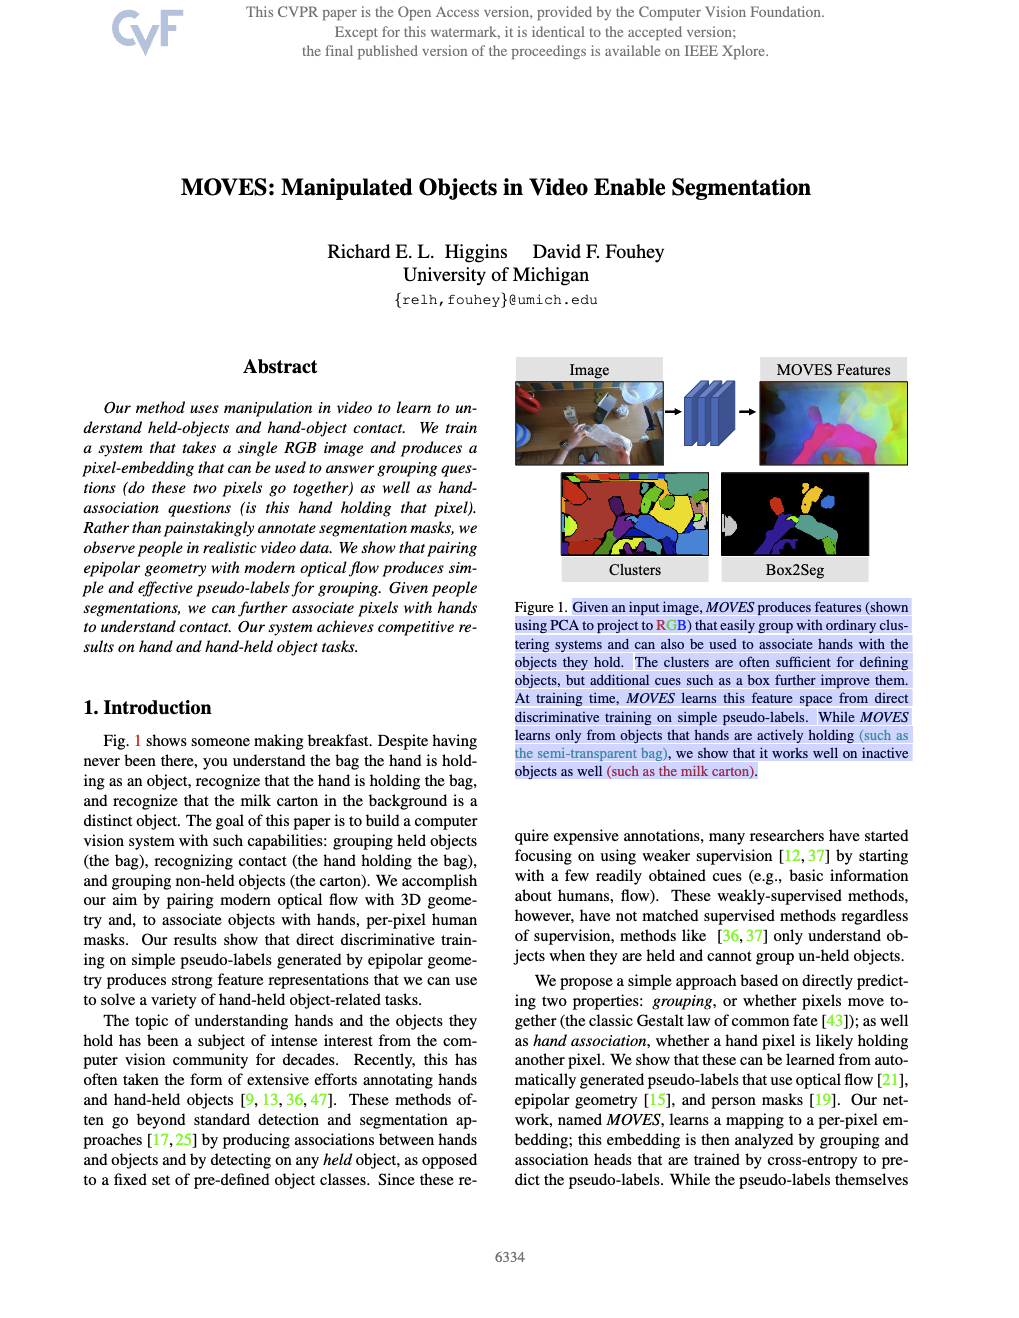
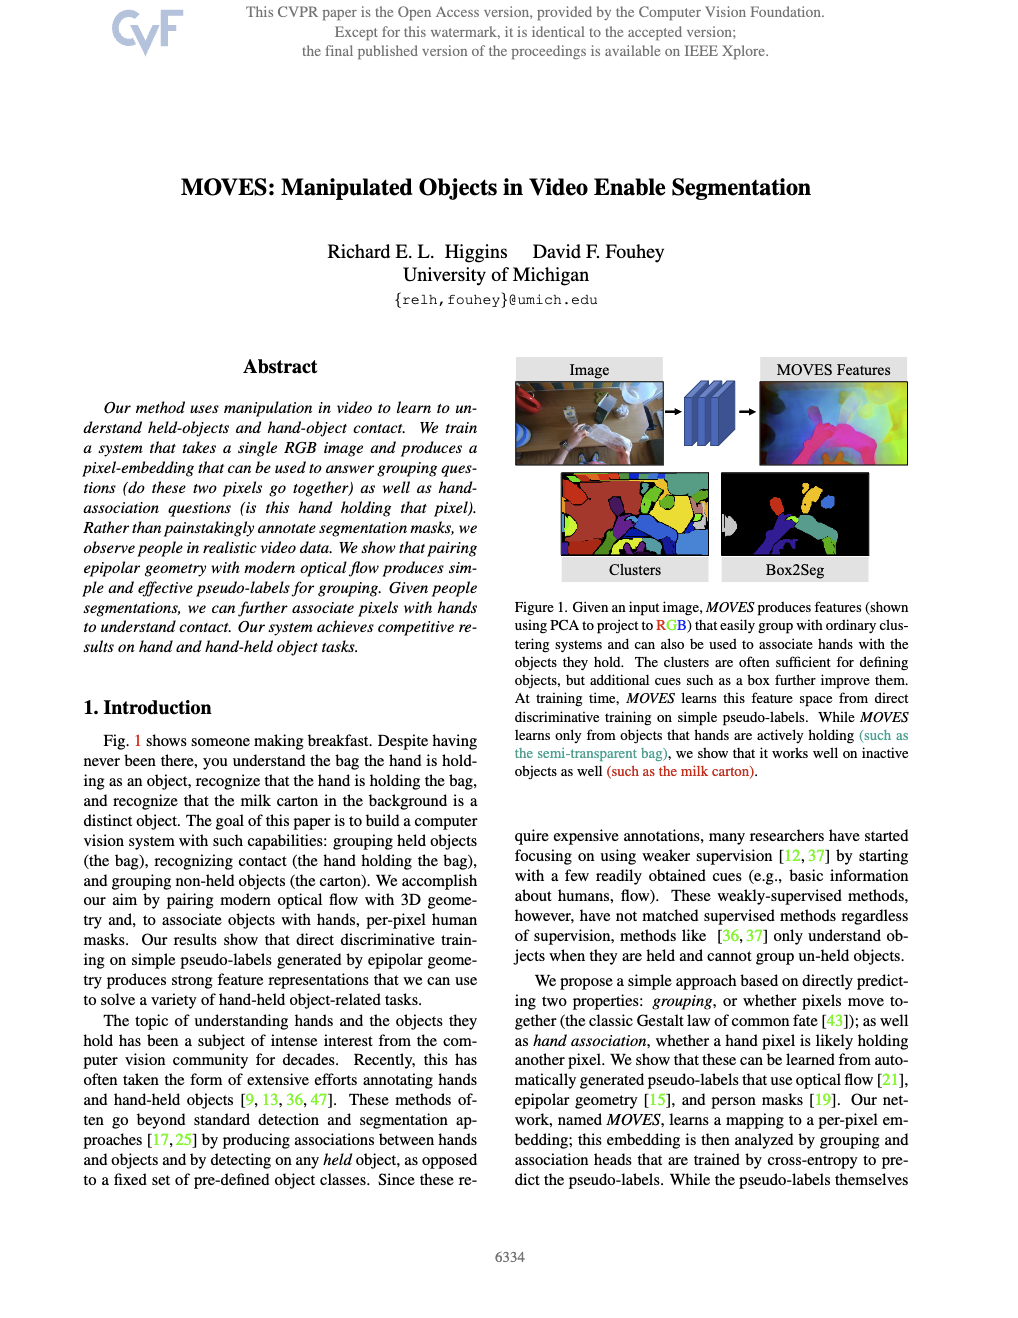
version 1 to add some fields

diff --git a/index.html b/index.html
@@ -30,7 +30,9 @@
 
               gtag('config', 'G-ZHY384EZP7');
     </script>
-
+        <script type="text/javascript" id="MathJax-script" async
+        src="https://cdn.jsdelivr.net/npm/mathjax@3/es5/tex-mml-chtml.js">
+        </script>
 </head>
 
 <body>
@@ -68,15 +70,12 @@
     <img style="width: 80%;" src="./resources/teaser.png" alt="Teaser figure."/>
     <br>
     <p style="width: 80%;">
-    Given an input image, MOVES produces features (shown
-    using PCA to project to RGB) that easily group with ordinary clustering systems and can also be used to associate hands with the
-    objects they hold. The clusters are often sufficient for defining
-    objects, but additional cues such as a box further improve them.
-    At training time, MOVES learns this feature space from direct
-    discriminative training on simple pseudo-labels. While MOVES
-    learns only from objects that hands are actively holding (such as
-    the semi-transparent bag), we show that it works well on inactive
-    objects as well (such as the milk carton).
+    Given an input image, method produces features (shown using PCA to project to 
+    <span style='color:red'>R</span><span style='color:green'>G</span><span style='color:blue'>B</span>) 
+    that easily group with ordinary clustering systems and can also be used to associate hands with the objects they hold. The clusters are often sufficient for defining objects, but additional cues such as a box improve them further. At training time, method learns this feature space from direct discriminative training on simple pseudo-labels. While method learns only from objects that hands are actively holding 
+    <span style='color:baggreen'>(such as the semi-transparent bag)</span>, 
+    we show that it works well on inactive objects as well 
+    <span style='color:cartonred'>(such as the milk carton)</span>.
     </p>
 
     <br><br>
@@ -85,6 +84,16 @@
     <h1>Abstract</h1>
     <p style="width: 80%;">
         Our method uses manipulation in video to learn to understand held-objects and hand-object contact. We train a system that takes a single RGB image and produces a pixel-embedding that can be used to answer grouping questions (do these two pixels go together) as well as hand-association questions (is this hand holding that pixel). Rather than painstakingly annotate segmentation masks, we observe people in realistic video data. We show that pairing epipolar geometry with modern optical flow produces simple and effective pseudo-labels for grouping. Given people segmentations, we can further associate pixels with hands to understand contact. Our system achieves competitive results on hand and hand-held object tasks.
+    </p>
+
+    <br><br>
+    <hr>
+
+    <h1>Poster</h1>
+    <img style="width: 80%;" src="./resources/poster.png"
+         alt="poster figure"/>
+    <br>
+    <p style="width: 80%;">
     </p>
 
     <br><br>
@@ -104,6 +113,21 @@
     <img style="width: 80%;" src="./resources/method.png"
          alt="Method overview figure"/>
     <br>
+    <p style="width: 80%;">
+    As input method accepts an RGB image and produces a 
+    \(H \times W \times F\) per-pixel feature embedding using a 
+    <span style='color:fcolor'>backbone HRNET 
+            <a href='https://doi.org/10.1007/978-3-030-11009-3_10' target='_blank'>(source)</a> 
+            denoted \(f(\cdot)\)</span>. Pairs of F-dimensional embeddings from this backbone can be passed to lightweight MLPs 
+    <span style='color:gcolor'>\(g(\cdot)\) to assess grouping probability</span> 
+    and <span style='color:acolor'>\(a(\cdot)\) to identify hand association</span>, 
+    or if the pixels are a hand and an object the hand is holding. Once trained, the method embeddings (here visualized with PCA to map the feature dimension to 
+    <span style='color:red'>R</span><span style='color:green'>G</span><span style='color:blue'>B</span>)  
+    can be used for: <i>(Clusters)</i> directly applying HDBSCAN 
+    <a href='https://doi.org/10.18637/jss.v077.i01' target='_blank'>(source)</a>  
+    to the embeddings produces a good oversegmentation; 
+    <i>(Box2Seg)</i>: Given a box, one can produce a more accurate segment; and 
+    <i>(Hand Association)</i> Applying \(a\) to a query point and every pixel produces hand-object association (here, to a drawer).</p>
     <a class="links" href="https://github.com/relh/moves">[Code]</a>
 
     <br><br>
@@ -112,6 +136,17 @@
     <h1>Results</h1>
     <img style="width: 80%;" src="./resources/results.png"
          alt="Results figure"/>
+<p style="width: 80%;">Results from method, with examples from the EPICK VISOR validation set. <b>Key:</b> Each column shows a different input image. From left to right we show: (<i>Image</i>) the input image; (<i>method Features</i>) a PCA projection of the feature space to 
+<span style='color:red'>R</span><span style='color:green'>G</span><span style='color:blue'>B</span>; (<i>Clusters</i>) The clusters found by HDBSCAN applied to the feature space with each cluster visualized with a random color; (<i>Association</i>) The prediction of the association head on the image on one of the hands in the image; (<i>Hands+Held</i>) A Mask of hands and hand-held Objects in the image. The association head usually does a good job of recognizing the objects that hands are holding. <b>Discussion:</b> 
+<ul>
+    <li>(row 1) although the cabinet door is thin, method recognizes the association between hand and door.</li>
+    <li>(row 2) method detects a large mixing bowl.</li>
+    <li>(row 3) the transparent glass pan lid is recognized as an object by method despite the stovetop below being visible through it.</li>
+    <li>(row 4) the multi-colored hand towel is clustered as separate segments, however the association head helps segment most of the hand towel, showing the complementary nature of pairing an association head with clustering.</li>
+    <li>(row 5) the transparent bottle is segmented nicely.</li>
+    <li>(row 6) the cutting board is being cleared into the trashcan, but method successfully identifies the board as being the held object.</li>
+</ul></p>
+
 
     <br><br>
     <hr>
